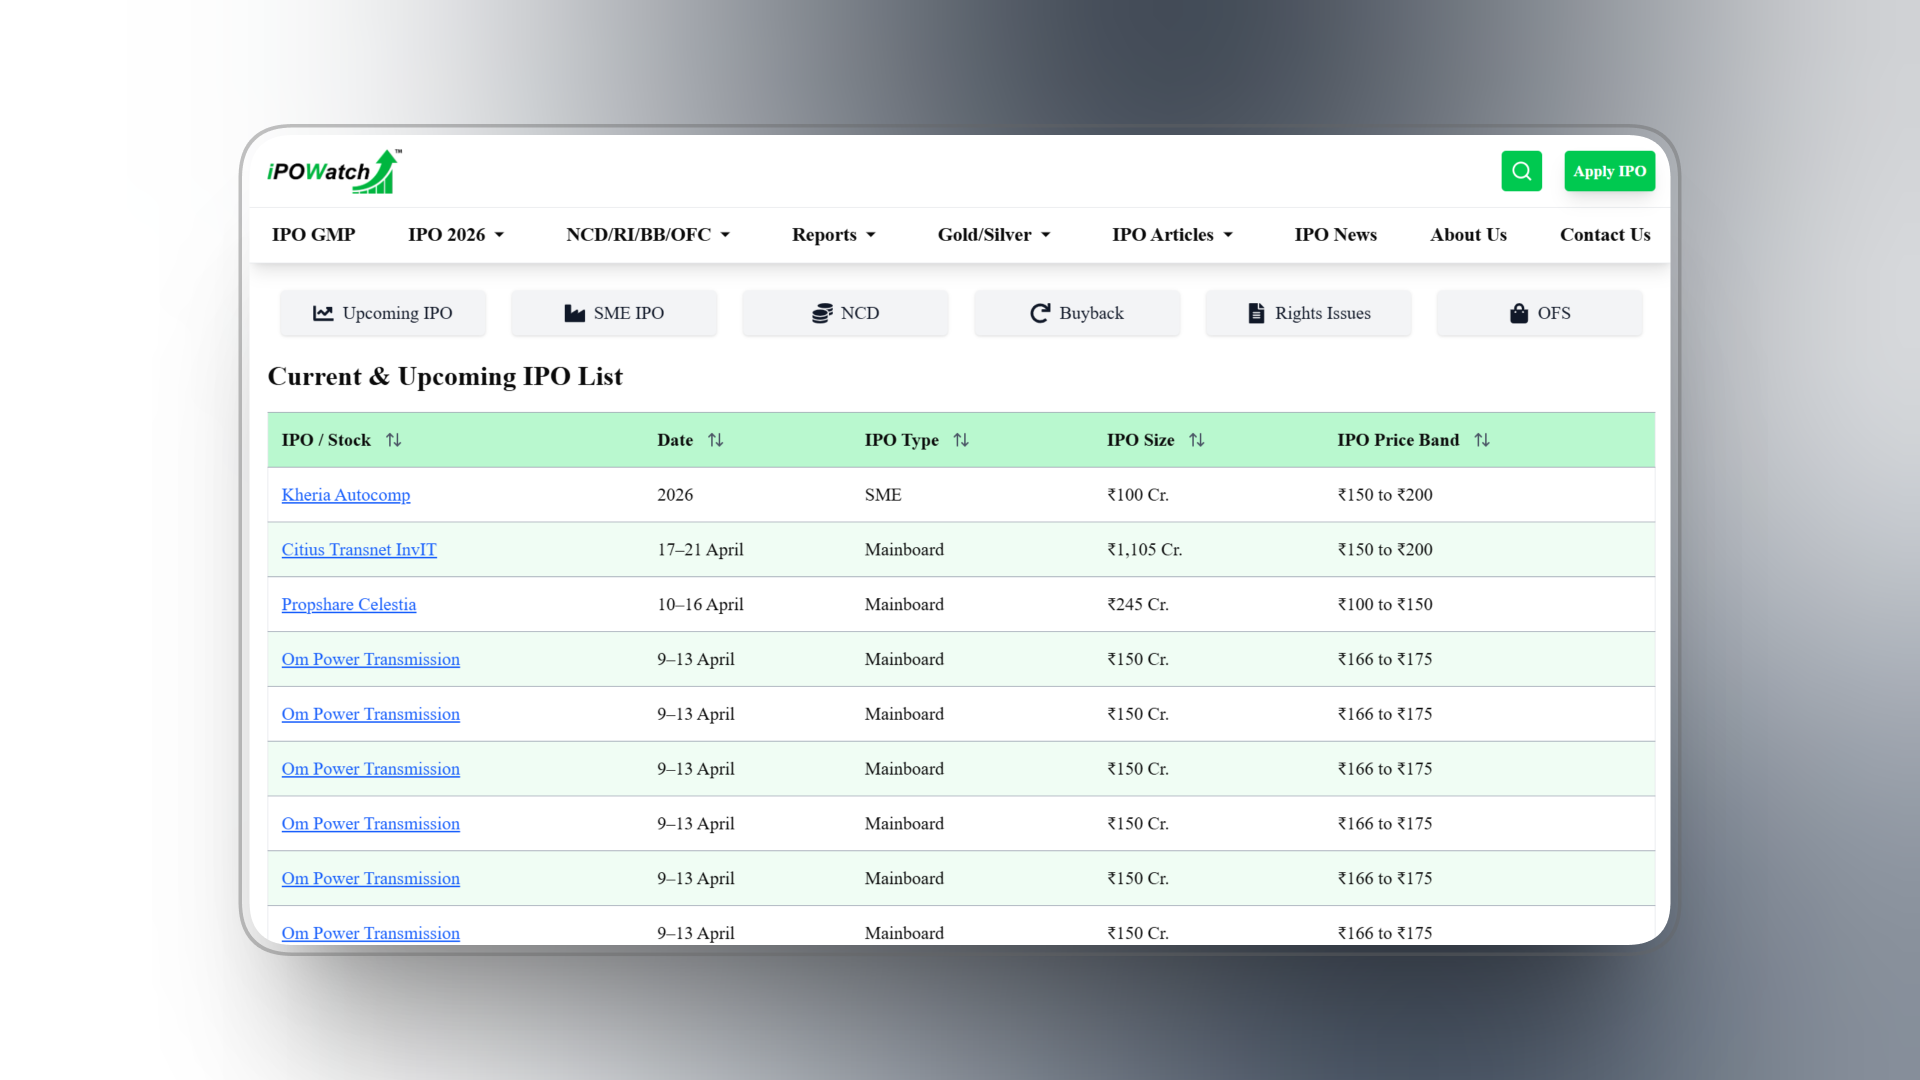
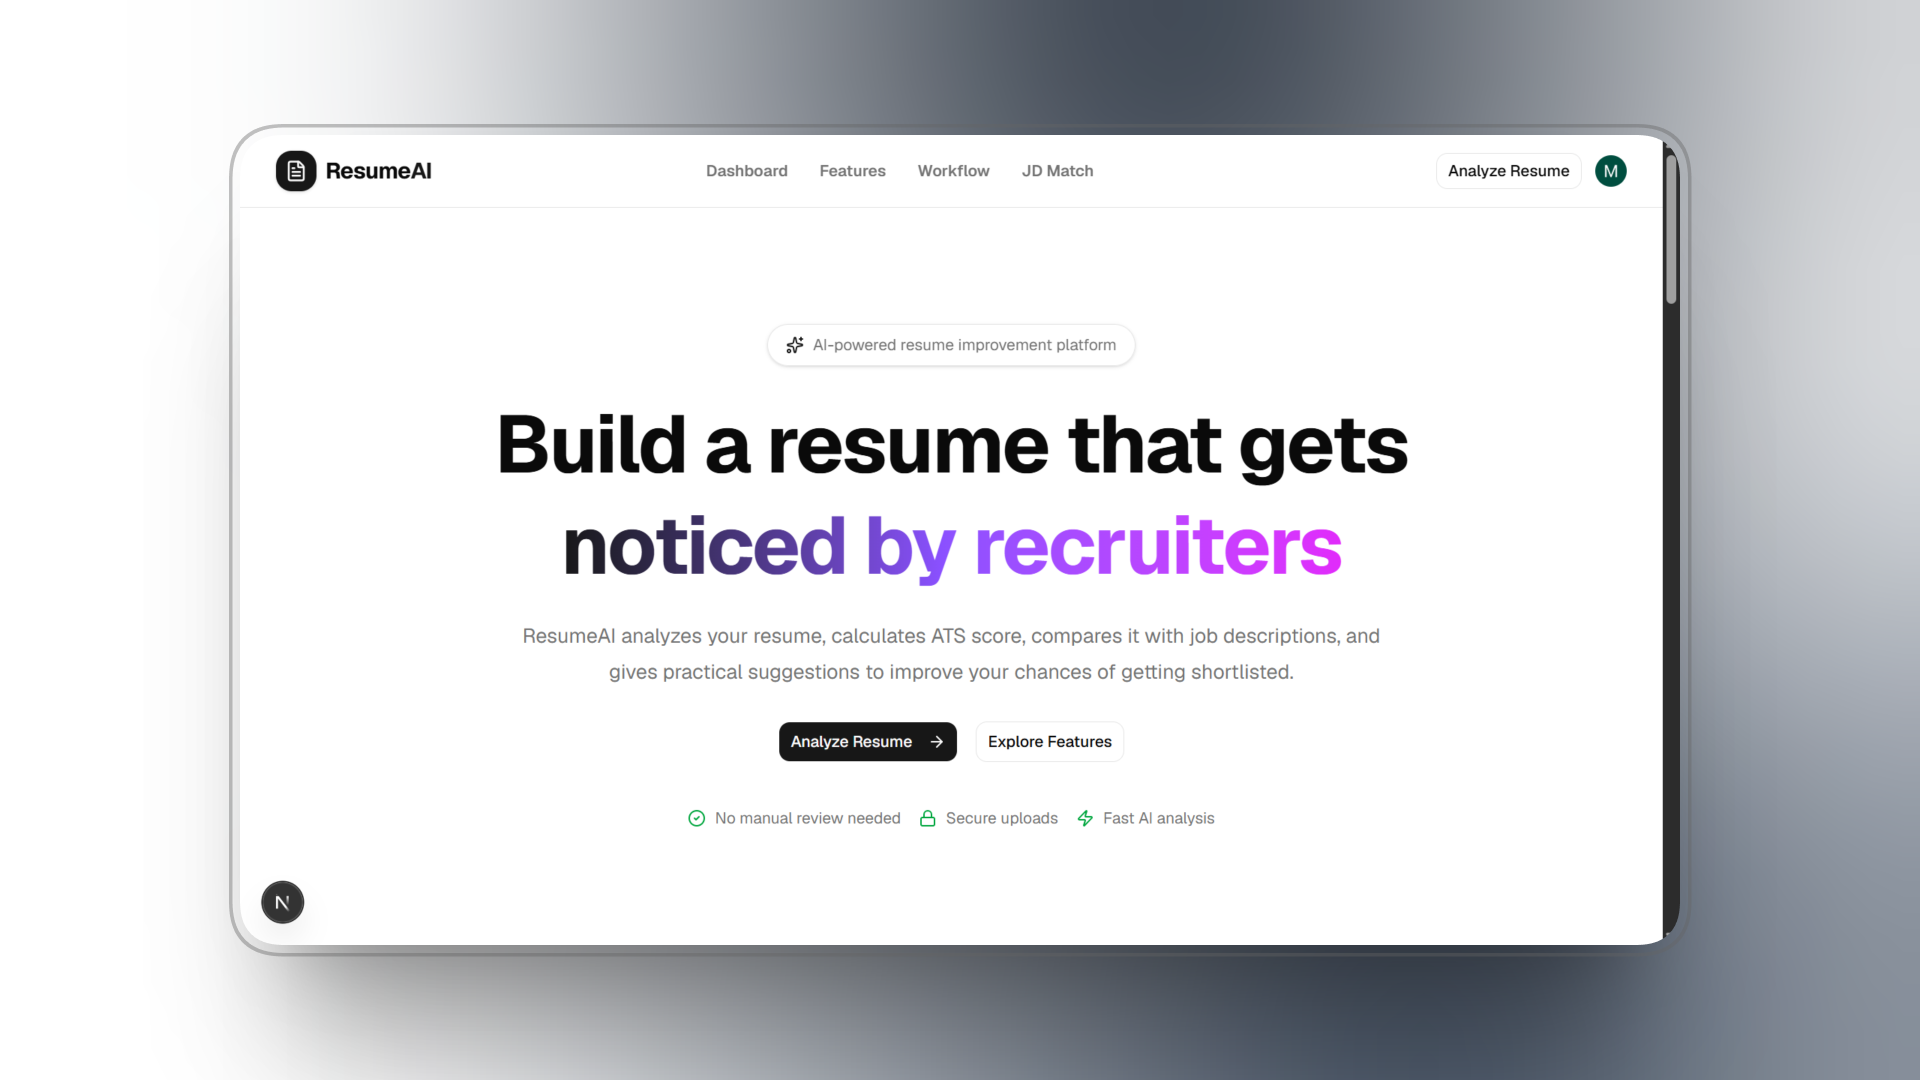
feat: update project details

diff --git a/src/components/home/Projects.jsx b/src/components/home/Projects.jsx
@@ -45,22 +45,23 @@ const projects = [
   },
 
   {
-    title: "IPO Watch Clone",
+    title: "AI Resume Analyzer",
     description:
-      "A fully responsive IPO Watch clone built using Next.js, showcasing advanced UI design, responsive layouts, and component-based architecture.",
+      "AI Resume Analyzer is a full-stack SaaS-style web app built using Next.js, it helps users upload resumes, get AI-powered ATS analysis, and compare their resume with a target job description.",
     image: project3,
-    github: "https://github.com/MeetVora79/ipo-watch-clone",
-    live: "https://ipo-watch-clone.vercel.app/",
+    github: "https://github.com/MeetVora79/ai-resume-analyzer",
+    live: "https://resume-ai-next.vercel.app/",
     stack: [
       "Next.js",
-      "React.js",
       "JavaScript",
       "Tailwind CSS",
       "Shadcn UI",
-      "Radix UI",
-      "Embla Carousel",
+      "Clerk Auth",
+      "MongoDB Atlas",
+      "UploadThing",
+      "Gemini AI",
+      "Recharts",
       "Lucide React",
-      "Responsive Design",
     ],
   },
 ];
